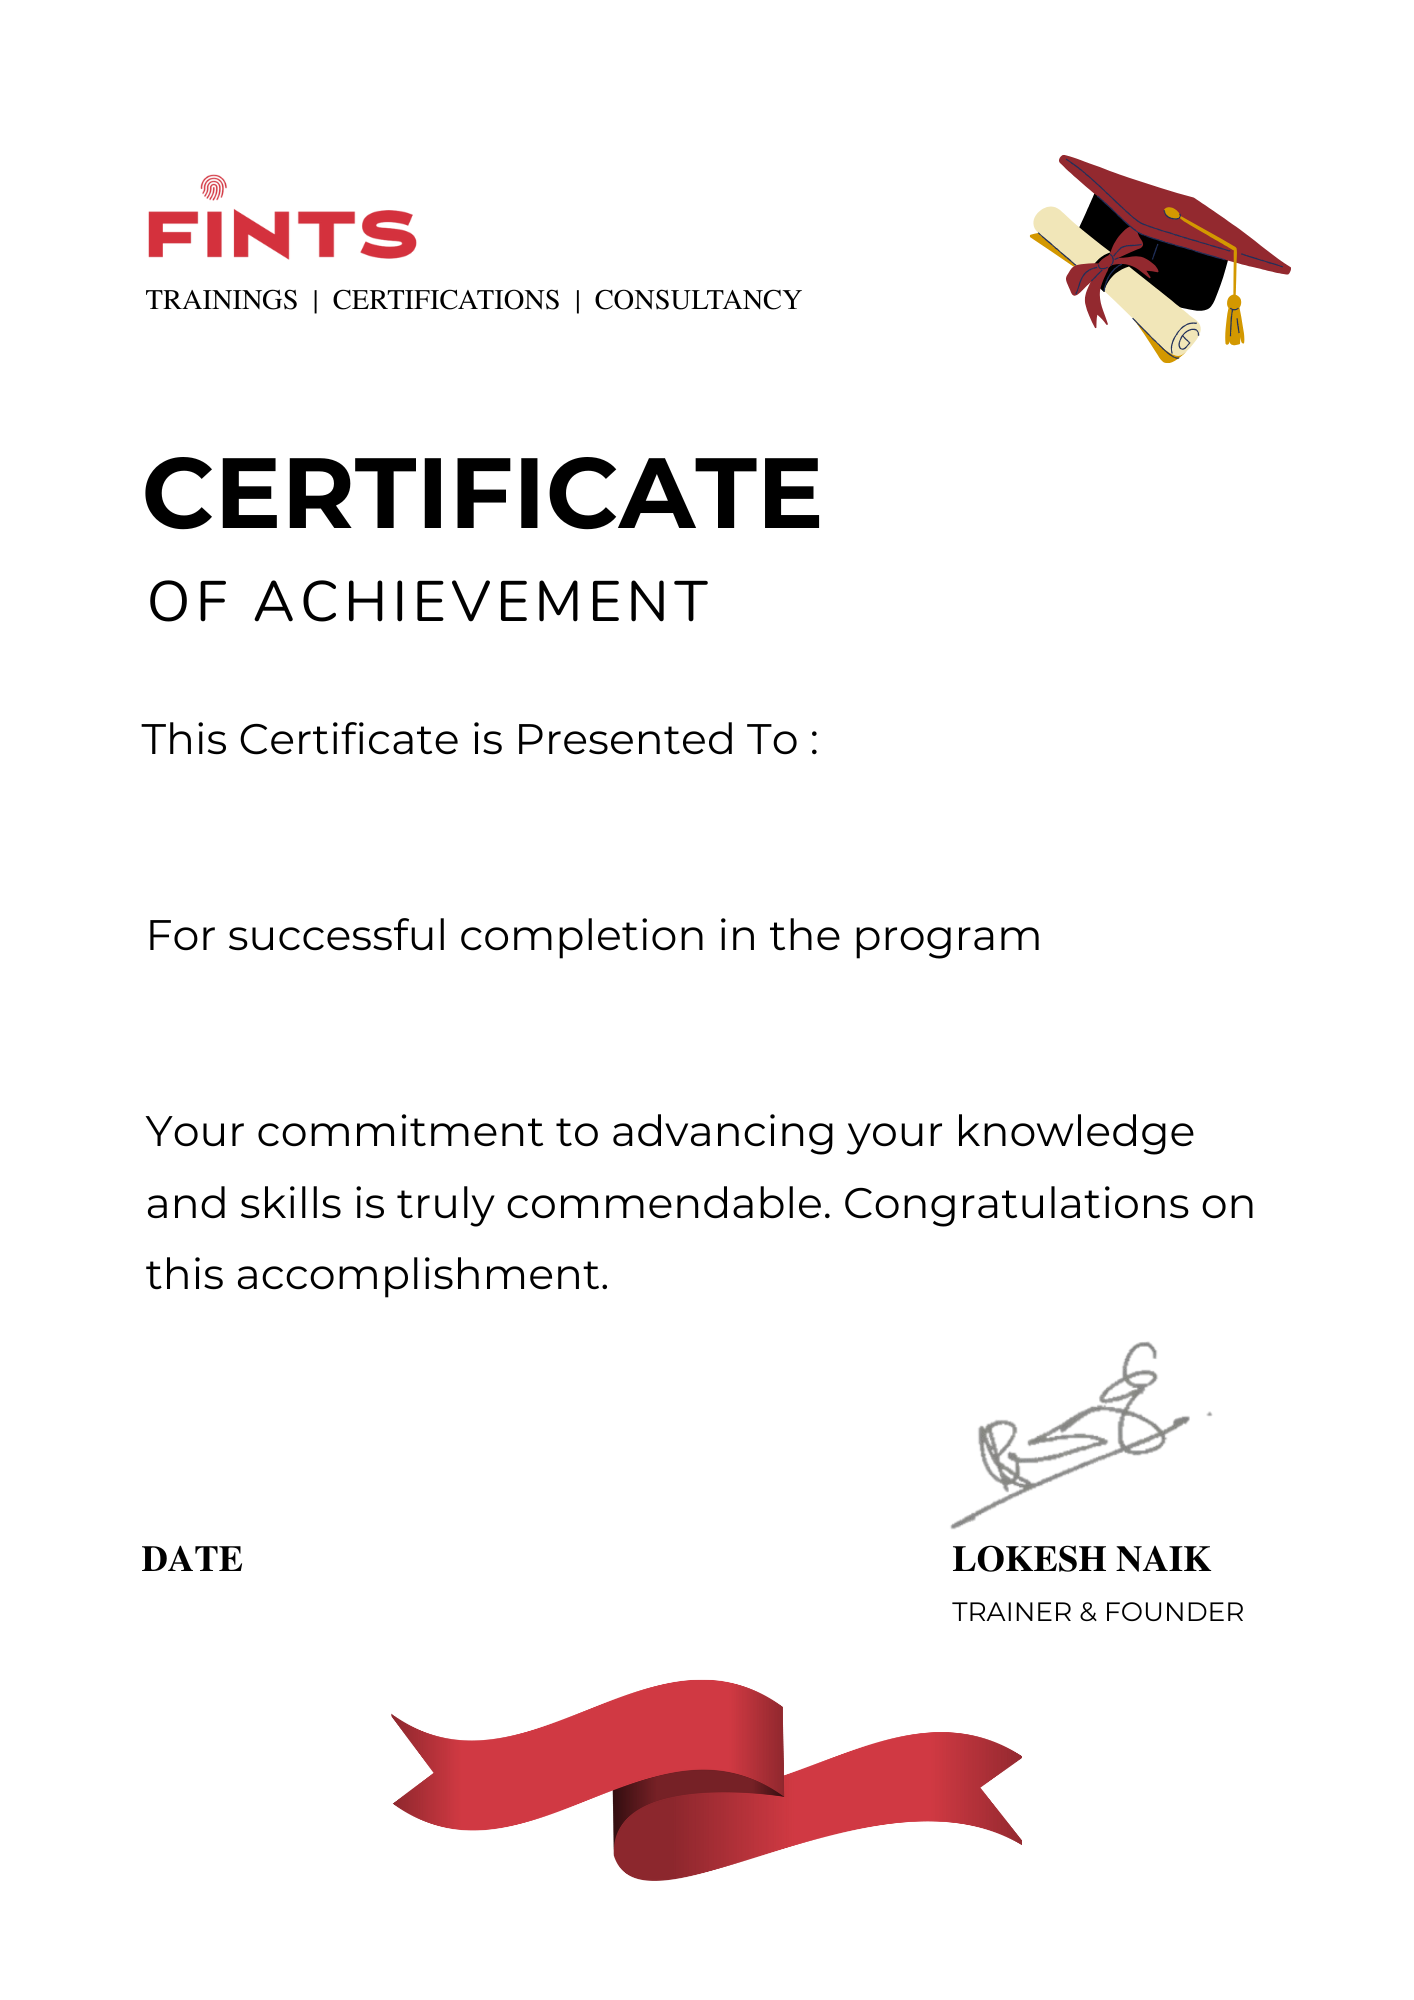
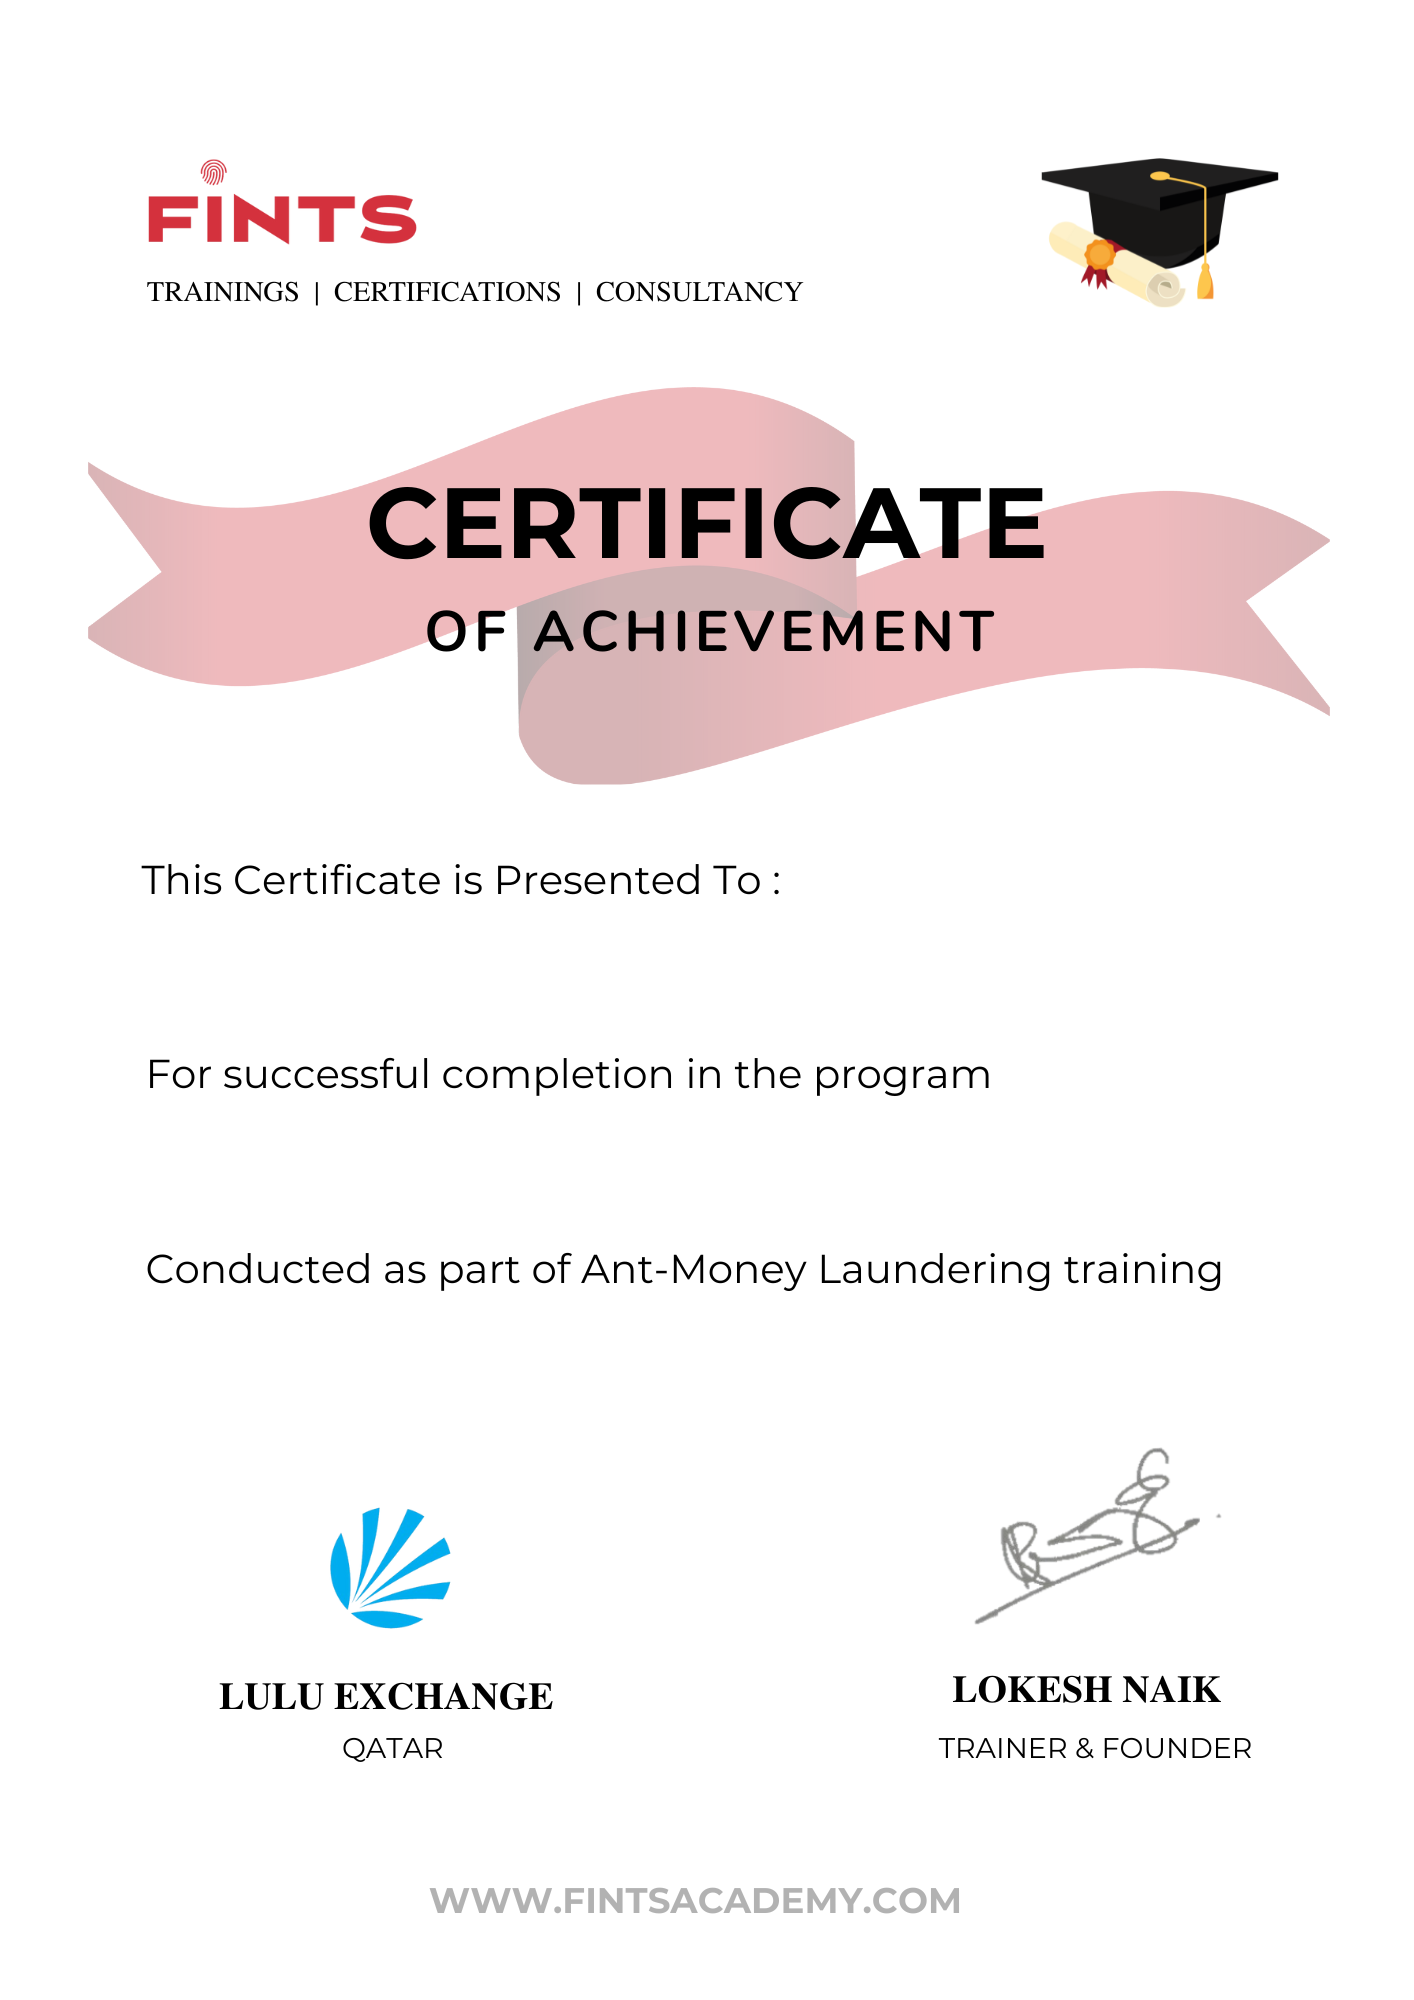
Template updated

diff --git a/app/(user)/course/[batchId]/page.js b/app/(user)/course/[batchId]/page.js
@@ -20,6 +20,7 @@ import certificate from '../../../../assets/certificate.png'
 import { Card, CardDescription, CardTitle } from '@/components/ui/card';
 import { FormatDate } from "@/utility/FormatDate";
 import { Button } from "@/components/ui/button";
+import { Montserrat } from 'next/font/google';
 import {
     Tooltip,
     TooltipContent,
@@ -32,6 +33,8 @@ import template from '@/assets/template.png'
 import { Dialog, DialogContent, DialogDescription, DialogHeader, DialogTitle, DialogTrigger } from "@/components/ui/dialog"
 import { Confetti } from "@/utility/confetti";
 import { calculateResult } from "@/utility/calculateScores";
+
+const montserrat = Montserrat({ subsets: ['latin'] });
 
 export const pendingSessions = (sessions) =>
 {
@@ -74,7 +77,7 @@ const Batch = () =>
     const [ cardLoading, setCardloading ] = useState(false);
     const [activeTab, setActiveTab] = useState("sessions");
     const divRef = useRef(null);
-    const [ unlockCertificate, setUnlockCertificate ] = useState(false);
+    const [ unlockCertificate, setUnlockCertificate ] = useState(true);
 
     console.log(enrollment)
 
@@ -179,8 +182,6 @@ const Batch = () =>
         }
     }
 
-    console.log(enrollment)
-
     const handleTrigger = async (simulation) =>
     {
         try
@@ -206,6 +207,23 @@ const Batch = () =>
         <Loading/>   
     )
 
+    const start = new Date(enrollment.batch.startDate).toLocaleString(
+    'en-IN',
+    {
+        day: 'numeric',
+        month: 'long',
+        year: 'numeric'
+    }
+    );
+
+    const end = new Date(enrollment.batch.endDate).toLocaleString(
+    'en-IN',
+    {
+        day: 'numeric',
+        month: 'long',
+        year: 'numeric'
+    }
+    );
 
     return(
         <div className='grid grid-cols-1 gap-8 relative md:text-sm text-xs'>
@@ -330,11 +348,11 @@ const Batch = () =>
                         {!unlockCertificate ? 
                         <div className="min-h-[40vh] flex text-center items-center text-muted-foreground text-sm">Certificate wil be unlocked on successful completion of sprint and assessment</div> : 
                         <div>  
-                            <div ref={divRef} className="relative text-[#d39800] font-sans">
+                            <div ref={divRef} className={`relative text-[#d39800] font-sans ${montserrat.className}`}>
                                 <Image className="w-fit h-400px" src={template} alt='certificate'/>
-                                <h1 className="absolute md:text-lg text-sm font-bold text w-full md:left-10 left-[10%] top-[40%]">{enrollment.user.name}</h1>
-                                <p className="absolute md:text-lg text-sm  font-bold w-full md:left-10 left-[10%] top-[50%]">{enrollment.batch.course.title}</p>
-                                <p className="absolute md:text-xs text-[8px] font-bold md:left-10 left-[10%] bottom-[24%]">{new Date(enrollment.batch.endDate).toLocaleDateString()}</p>
+                                <h1 className="absolute md:text-md sm:text-sm text-xs font-bold text w-full md:left-10 left-[10%] top-[46%]">{enrollment.user.name.toUpperCase()}</h1>
+                                <p className="absolute md:text-md sm:text-sm text-xs font-bold w-full md:left-10 left-[10%] top-[56%]">{enrollment.batch.course.title.toUpperCase()}</p>
+                                <p className="absolute md:text-md sm:text-sm text-xs font-bold w-full md:left-10 left-[10%] top-[66%]">{start.toUpperCase() +' - ' +end.toUpperCase()}</p>
                             </div>
                         </div>}
               
